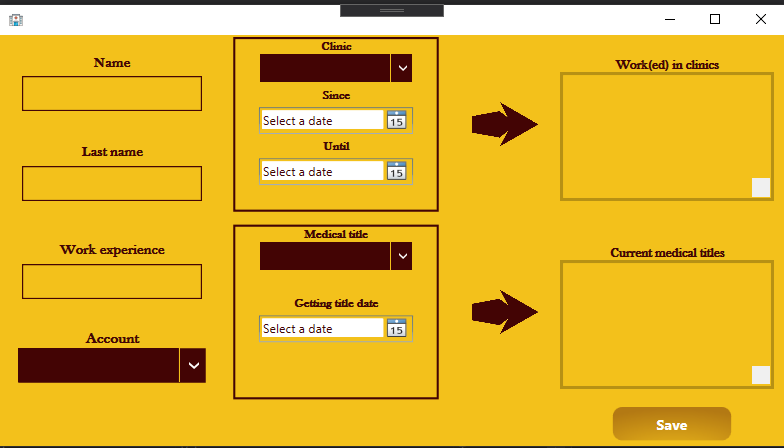
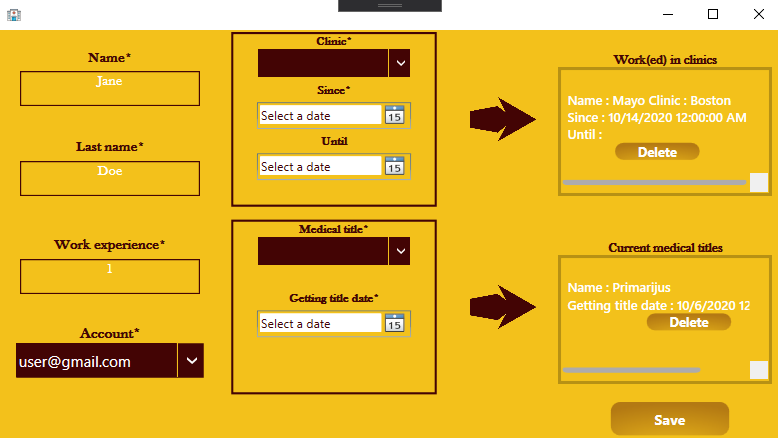
Update UserInstructions.md file

diff --git a/VirtualDoctor/AmbulanceSystem/Documentation/UserInstructions.md b/VirtualDoctor/AmbulanceSystem/Documentation/UserInstructions.md
@@ -27,7 +27,7 @@ User can change the theme by choosing one from the dropdown menu, that is opened
 ### Login to the system
 In order to access other functionalities, one must be logged in. To log in, a person must have an account in the system, and on the appropriate screen, the user enters their credentials, such as email address and password that correspond to that account. After that, the user is prompted to choose one of the roles they have on the system.  
 ![Login screen](./2.PNG)  
-By clicking on button Log in, the user will then be able to choose one of the roles. User from this example has 4 possible roles. Each role offers different functionalities.  
+By clicking on button Log in, the user will then be able to choose one of the roles. User from this example has 4 possible roles. Each role offers different functionalities.    
 ![Roles](./3.PNG)  
 ### Guide through some of the functionalities
 
@@ -35,10 +35,11 @@ In the next examples it will be shown how can organizational admin switch throug
 
 After logging in on the system, the main page of organizational admin is shown. For illustration purpose, the theme is changed to Ravenclaw.  
 ![Main page](./4.PNG)
-If the user then clicks on button Doctors, a page will be displayed will table with current doctors, and buttons for adding, deleting, editing doctor and displaying details of a specific one.
+If the user then clicks on button Doctors, a page will be displayed will table with current doctors, and buttons for adding, deleting, editing doctor and displaying details of a specific one.  
 ![Doctors](./5.PNG)
 
-In order to add a doctor, the user clicks on button Create. A new modal window that represents form is opened. From the picture, we can see that there are some fields to fill in, and some require to be added using arrows. If the user wants to input their work experience, nothing except numbers will be allowed. That is real-time validation. Some things cannot be checked instantly, so for example, if the user tries to add a doctor, and the last name is empty, then they will get the error displayed after button Save is clicked. In order to add a clinic where the doctor works, the user chooses one of the possible clinics and the date when they began working there. Util date is not necessary, and if not specified, that means that doctor works there now. Then, when data is chosen, the user clicks on the arrow next to that box. If everything goes well, the clinic will be displayed on the list in the right top corner of the form. It can be deleted from there also. To add medical title, all information must be selected. Images bellow show empty and correctly filled in the form. 
+In order to add a doctor, the user clicks on button Create. A new modal window that represents form is opened. From the picture, we can see that there are some fields to fill in, and some require to be added using arrows. If the user wants to input their work experience, nothing except numbers will be allowed. That is real-time validation. Some things cannot be checked instantly, so for example, if the user tries to add a doctor, and the last name is empty, then they will get the error displayed after button Save is clicked. In order to add a clinic where the doctor works, the user chooses one of the possible clinics and the date when they began working there. 
+Util date is not necessary, and if not specified, that means that doctor works there now. Then, when data is chosen, the user clicks on the arrow next to that box. If everything goes well, the clinic will be displayed on the list in the right top corner of the form. It can be deleted from there also. To add medical title, all information must be selected. Images bellow show empty and correctly filled in the form.  
 ![Create empty](./6.PNG)  
 ![Create filled in](./7.PNG)  
 Some of the fields are not mandatory. Mandatory fields are those with *.
@@ -49,9 +50,9 @@ For example, after the user selects the doctor that is added previously, and the
 
 ### Adding a new account
 As an account administrator, the user can manipulate with accounts within the application. On the main page, by clicking the button Accounts, a new page is displayed with information about existing accounts, where the administrator can see them, change current information, delete an account or add a new one.  
-![account]()
+![Account](./9.PNG)
 In order to create a proper account, a role must be chosen from the dropdown list of roles. One user can have multiple roles.
-![adding](account)
+![Adding Account](./10.PNG)
 
 
 
